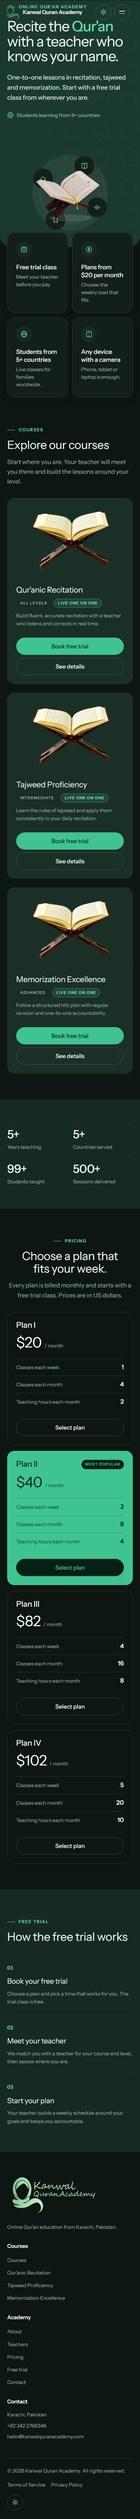
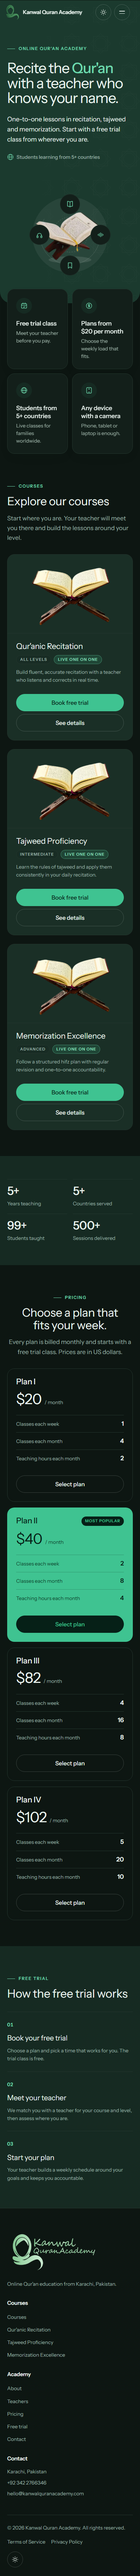
fix: reduce hero top gap to 24px desktop / 16px mobile

diff --git a/AGENTS.md b/AGENTS.md
@@ -35,7 +35,7 @@ Payments are NOT in scope yet. "Select plan" opens the trial/enrolment form with
 - Shape: big panels radius 28px, cards 20px, inputs 12px, buttons and chips fully round. Panel inner padding 24 to 40px. Max content width 1200px.
 - Layout: the site is full bleed on --page at every width. No outer inset, no rounded sheet anywhere.
 - Chips: 1px outline of --ink at 20%, 36px tall, 14px text. Primary button: --green fill, white text, 48px tall. Secondary: outline. Selected or hovered list row: --green fill, white text.
-- Hero: full-width section on --mint-300 whose only rounded corners are the bottom two (radius 48px, 32px below 760px). The hero colour never shows outside the hero. The header is in normal flow at the top of the hero, never absolutely positioned over the content; hero copy starts 72px below the header on desktop (48px on mobile). Desktop: 80px bottom padding (40px on mobile) so the overlapping feature cards sit close under the content and the whole hero fits the initial viewport. Header logo mark is 44px tall. Note: hero paddings must out-specify the Section's `.section--space-flush` (Astro scopes it as a 2-class selector), hence the `section.section--space-flush.hero` selectors.
+- Hero: full-width section on --mint-300 whose only rounded corners are the bottom two (radius 48px, 32px below 760px). The hero colour never shows outside the hero. The header is in normal flow at the top of the hero, never absolutely positioned over the content; hero copy starts 24px below the header on desktop (16px on mobile). Desktop: 80px bottom padding (40px on mobile) so the overlapping feature cards sit close under the content and the whole hero fits the initial viewport. Header logo mark is 44px tall. Note: hero paddings must out-specify the Section's `.section--space-flush` (Astro scopes it as a 2-class selector), hence the `section.section--space-flush.hero` selectors.
 - Hero content: eyebrow, h1, lead paragraph and the small "Students learning from 5+ countries" line only. No CTA buttons, no trial mini card and no chip row inside the hero; the header keeps its "Get free trial" button.
 - Floating feature grid: directly under the hero, four white cards (--surface in dark) overlapping the hero bottom edge by 72px (40px mobile), above the surrounding sections in z-index. Radius 20px, 1px --line, soft shadow 0 12px 32px -16px rgba(11,26,20,.25), 24px padding, a 44px --mint-100 circle with a custom SVG icon, a title and one short line, 4px lift on hover and focus-within, 4 columns on desktop and 2x2 on mobile. Staggered fade-up entrance starts 600ms after load. The next section clears the overlap with extra top padding.
 - Hero visual: square stage, min(46vw, 520px) (300px mobile), with the Quran image floating over a flat backdrop circle, a 1px drawn orbit ring, a slowly counter-rotating inner dashed ring (ambient, decorative only), and four 56px round link buttons fixed at 0/90/180/270 on the ring; nothing clickable ever moves. Hover, focus, or a first tap on touch shows a static 14px label pill beside the icon after a 120ms delay (hide is instant). Only decorative loops pause off screen; prefers-reduced-motion keeps everything static but keeps hover labels. The hero clips its own overflow so the stage can never create page scroll. See index.astro for the full spec.
